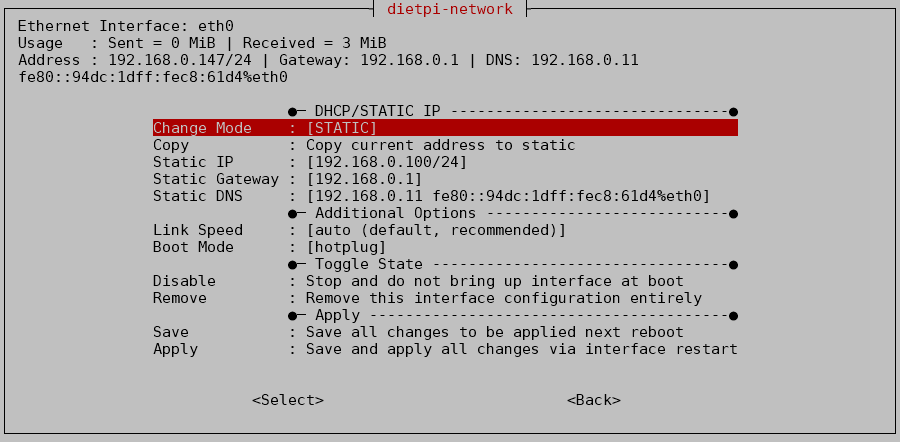
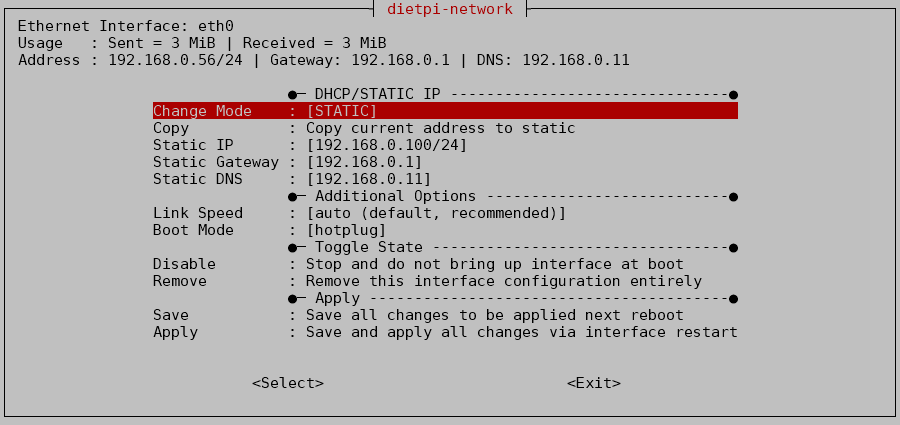
Use NanoPi R6S screenshots for dietpi-network

diff --git a/docs/dietpi_tools/system_configuration.md b/docs/dietpi_tools/system_configuration.md
@@ -134,7 +134,7 @@ DietPi-Network sets up your network connections: Ethernet and WiFi, with automat
 dietpi-network
 ```
 
-![DietPi-Network main menu screenshot](../assets/images/dietpi-network-main.png "DietPi-Network main menu"){: width="1203" height="324" loading="lazy"}
+![DietPi-Network main menu screenshot](../assets/images/dietpi-network-main.png "DietPi-Network main menu"){: width="900" height="323" loading="lazy"}
 
 The same menu is opened by **Network Options: Adapters** in [DietPi-Config](#dietpi-config).
 
@@ -154,7 +154,7 @@ The same menu is opened by **Network Options: Adapters** in [DietPi-Config](#die
 
     Select your Ethernet adapter, e.g. `eth0`, in the main menu.
 
-    ![DietPi-Network Ethernet menu screenshot](../assets/images/dietpi-network-ethernet.png "DietPi-Network Ethernet menu"){: width="900" height="442" loading="lazy"}
+    ![DietPi-Network Ethernet menu screenshot](../assets/images/dietpi-network-ethernet.png "DietPi-Network Ethernet menu"){: width="900" height="425" loading="lazy"}
 
     - **Change Mode**: Switch between **DHCP** and **STATIC**. With DHCP, your router gives the IP address to your device. This is the best choice for most users. With STATIC, you choose the address yourself, and the following entries show up.
     - **Copy**: Take over the current address, gateway and DNS server as static values. This is a good start, if you want to keep the current address.
@@ -175,7 +175,7 @@ The same menu is opened by **Network Options: Adapters** in [DietPi-Config](#die
 
     Select your WiFi adapter, e.g. `wlan0`, in the main menu. WiFi has to be turned on with **WiFi modules** before.
 
-    ![DietPi-Network WiFi menu screenshot](../assets/images/dietpi-network-wifi.png "DietPi-Network WiFi menu"){: width="900" height="374" loading="lazy"}
+    ![DietPi-Network WiFi menu screenshot](../assets/images/dietpi-network-wifi.png "DietPi-Network WiFi menu"){: width="900" height="425" loading="lazy"}
 
     - **Scan**: Search for WiFi networks, select yours and enter the password.
     - **Change Mode**, **Static IP**, **Static Gateway**, **Static DNS**, **Boot Mode**, **Disable** / **Enable**, **Remove**, **Save** and **Apply**: Work like for Ethernet, see the "Ethernet" tab.
